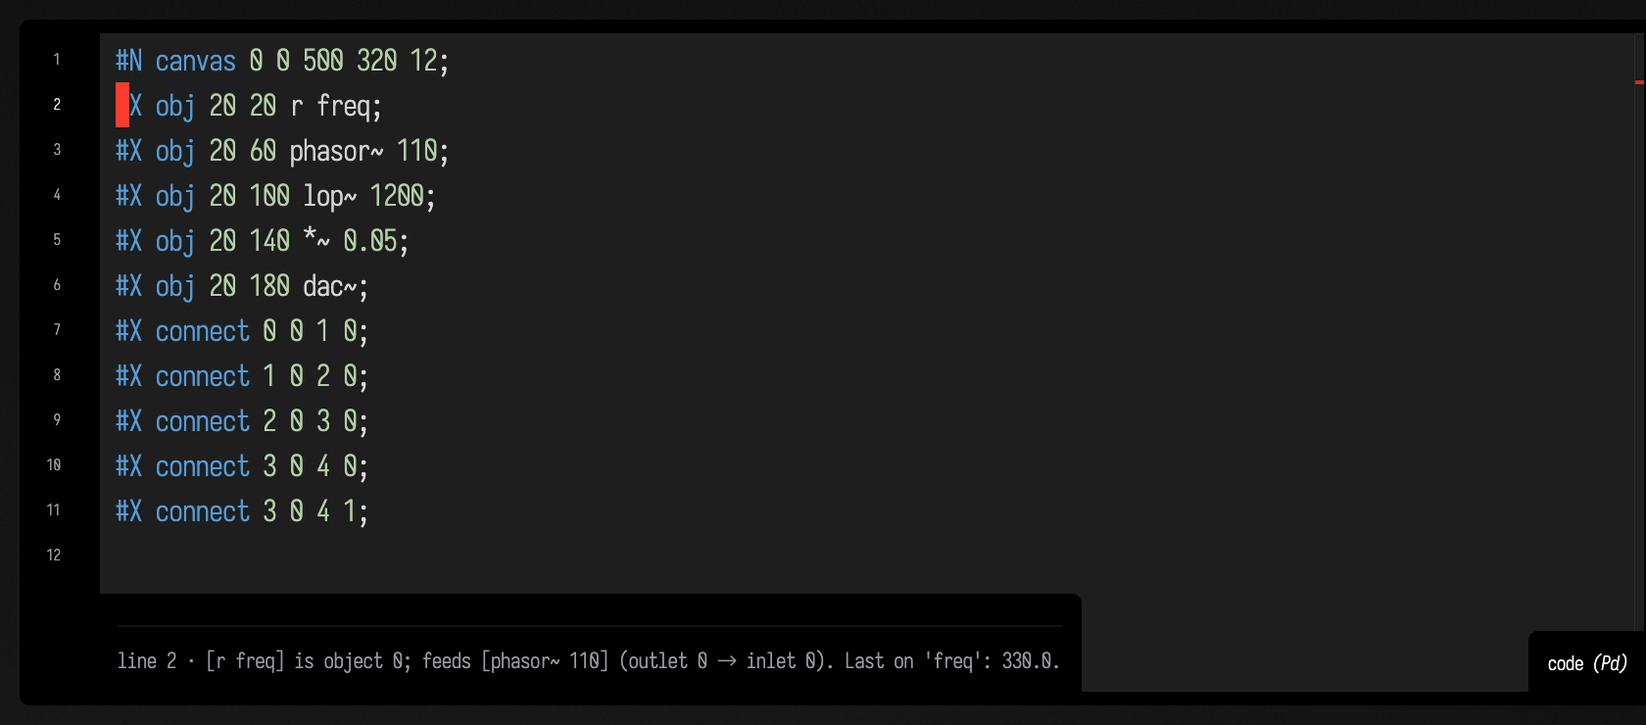
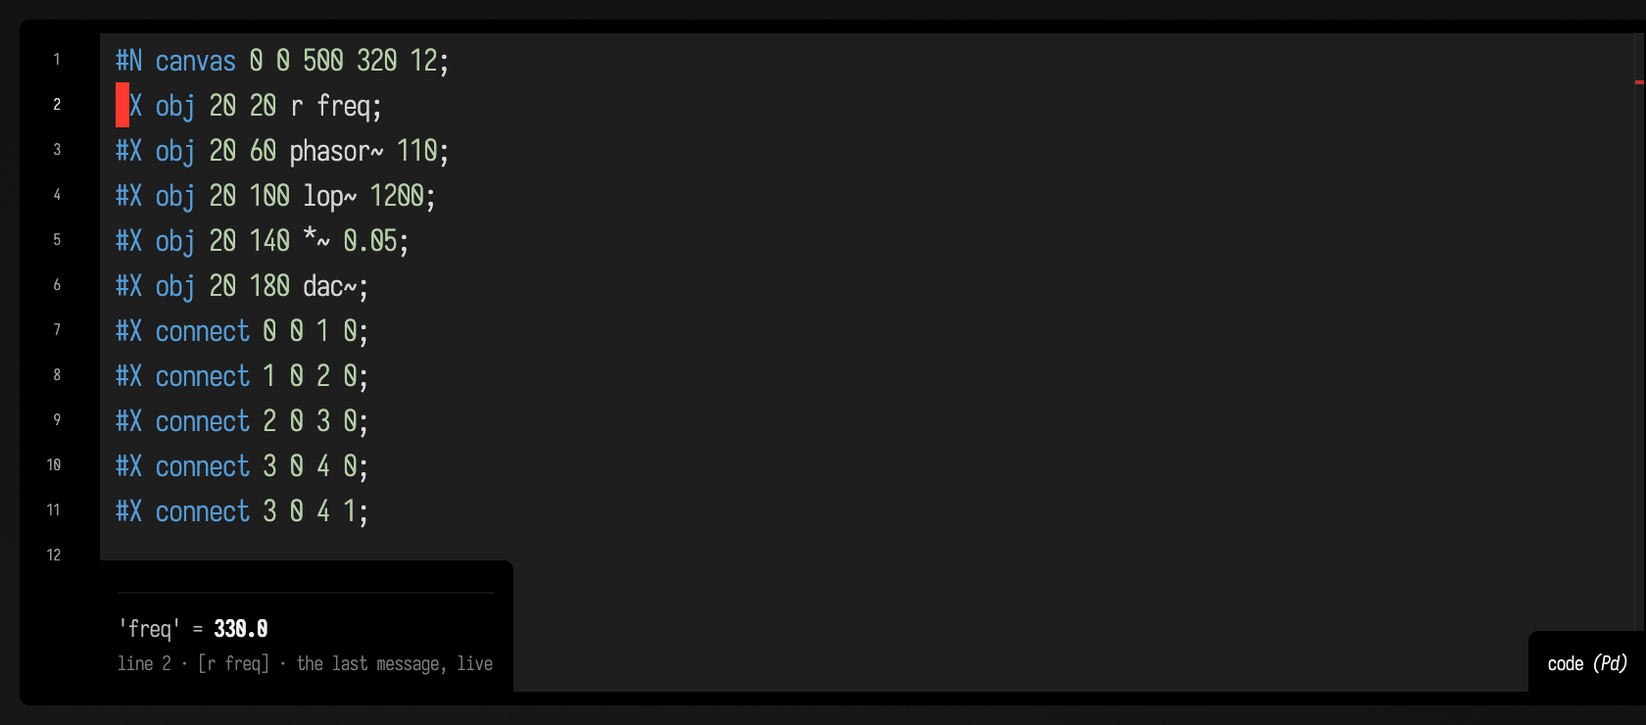
Pd line notes: the value in bold over a muted meta line, and live values marked volatile
Pd's line note was one grey sentence ("[s out] is object 2; fed by [+ 1] (outlet 0 → inlet 0). Last on
'out': 42.0."), cached against the text, so a value that arrived later never reached the editor. It now
uses the split every other language's notes use (N0928-1, after line notes landed):

- an [s] or [r]: 'out' = **42.0**, over "[s out] · the last message, live"; volatile, so the editor asks
  again; on a stopped box it says "not playing: launch the box to see what goes through it";
- any other object: fed by **[r in]** · feeds **[s out]**, **[print out]**, over "[+ 1] · object 1";
- a #X connect line: **[+ 1]** outlet 0 → **[s out]** inlet 0, over "a connection".

The caption stays PdPatchGraph.describeLine's whole sentence, for ReadLineNotes and anything else that
reads a note as text. PdLineNoteTest (4): wiring, a connection, a stopped send, and a playing patch's live
value (an Assume, reported as skipped when libpd is not built; it ran here). afield.pd.* 35/35, none
skipped.

Docs: a Pd row in language_extensions.md's line-notes table; pure_data.md's prose, and both line-note
figures recaptured through the docs runner (regenerated=2, failures=0) with alt text to match; the
pure_data_demo entry in agent_transcripts.md.

Changed region(s): [[0.0619, 0.7459, 0.681, 0.9635]]

diff --git a/src/jvmMain/kotlin/afield/pd/PdLanguage.kt b/src/jvmMain/kotlin/afield/pd/PdLanguage.kt
@@ -289,10 +289,53 @@ fun installPdLanguagePlugin() {
 @RunsAt(plugins, priority = 100)
 fun installPdLineNotes() {
     LineNotes.register("code", { it.ke is PdExecution }) { box, source, line ->
-        val execution = box.ke as? PdExecution
-        val graph = PdPatchGraph.parse(source)
-        graph.describeLine(line - 1) { name -> execution?.running?.pd?.lastValue(name) }?.let { LineNotes.Note(it) }
+        pdLineNote(PdPatchGraph.parse(source), line - 1, (box.ke as? PdExecution)?.running?.pd)
     }
+}
+
+/**
+ * The note for 0-based source [line] of a patch, split the way every language's notes are: a value line
+ * with its results in bold, over a muted meta line.
+ *
+ * An `[s]` or `[r]` shows the last value through its name, from [playing] — the Pd the box is running,
+ * or null when it is stopped, which the meta line says. That value changes while the text does not, so
+ * such a note is [LineNotes.Note.volatile]. Any other object shows what it is wired to, and a
+ * `#X connect` line the two ends it joins; both follow from the text alone. The caption stays
+ * [PdPatchGraph.describeLine]'s whole sentence, for anything that reads a note as text.
+ */
+fun pdLineNote(graph: PdPatchGraph, line: Int, playing: PdInstance?): LineNotes.Note? {
+    val caption = graph.describeLine(line) { name -> playing?.lastValue(name) } ?: return null
+    fun label(index: Int) = graph.objects.getOrNull(index)?.label ?: "#$index"
+    graph.objectOnLine(line)?.let { node ->
+        val name = node.sendsTo ?: node.receivesFrom
+        if (name != null) {
+            val seen = playing?.lastValue(name)
+            val value = if (seen != null) listOf(LineNotes.plain("'$name' = "), LineNotes.strong(seen.args.joinToString(" ").ifEmpty { seen.selector }))
+                else listOf(LineNotes.plain("nothing on '$name' yet"))
+            val meta = if (playing == null) "${node.label} · not playing: launch the box to see what goes through it"
+                else "${node.label} · the last message, live"
+            return LineNotes.Note(caption, volatile = true, meta = meta, value = value)
+        }
+        val value = ArrayList<LineNotes.Segment>()
+        val ins = graph.into(node.index)
+        val outs = graph.outOf(node.index)
+        if (ins.isNotEmpty()) {
+            value += LineNotes.plain("fed by ")
+            ins.forEachIndexed { k, c -> if (k > 0) value += LineNotes.plain(", "); value += LineNotes.strong(label(c.from)) }
+        }
+        if (outs.isNotEmpty()) {
+            value += LineNotes.plain(if (ins.isEmpty()) "feeds " else " · feeds ")
+            outs.forEachIndexed { k, c -> if (k > 0) value += LineNotes.plain(", "); value += LineNotes.strong(label(c.to)) }
+        }
+        if (value.isEmpty()) value += LineNotes.plain(if (node.kind == "text") "a comment" else "connected to nothing")
+        return LineNotes.Note(caption, meta = "${node.label} · object ${node.index}", value = value)
+    }
+    graph.connectionOnLine(line)?.let { c ->
+        if (graph.objects.getOrNull(c.from) == null || graph.objects.getOrNull(c.to) == null) return LineNotes.Note(caption)
+        return LineNotes.Note(caption, meta = "a connection",
+            value = listOf(LineNotes.strong(label(c.from)), LineNotes.plain(" outlet ${c.outlet} → "), LineNotes.strong(label(c.to)), LineNotes.plain(" inlet ${c.inlet}")))
+    }
+    return LineNotes.Note(caption)
 }
 
 fun pdTopologyNeedsUpdating(values: Collection<Box>) {

diff --git a/src/jvmTest/kotlin/afield/pd/PdLineNoteTest.kt b/src/jvmTest/kotlin/afield/pd/PdLineNoteTest.kt
@@ -1,0 +1,69 @@
+package afield.pd
+
+import org.junit.Assume
+import kotlin.test.Test
+import kotlin.test.assertEquals
+import kotlin.test.assertFalse
+import kotlin.test.assertNull
+import kotlin.test.assertTrue
+
+/**
+ * [pdLineNote]: a Pd box's line note split like every language's, with its results in bold. The
+ * wiring and the not-playing case are read from the text alone; the live value needs libpd, and that
+ * test is reported as skipped (not passed) when it is not built.
+ */
+class PdLineNoteTest {
+    private val patch = """
+        #N canvas 0 0 400 250 12;
+        #X obj 20 20 r in;
+        #X obj 20 60 + 1;
+        #X obj 20 100 s out;
+        #X obj 120 100 print out;
+        #X connect 0 0 1 0;
+        #X connect 1 0 2 0;
+        #X connect 1 0 3 0;
+    """.trimIndent()
+    private val graph = PdPatchGraph.parse(patch)
+
+    private fun valueText(note: afield.stdlib.LineNotes.Note) = note.value.joinToString("") { it.text }
+    private fun strongOf(note: afield.stdlib.LineNotes.Note) = note.value.filter { it.strong }.map { it.text }
+
+    @Test fun anObjectShowsItsWiringWithTheObjectsInBold() {
+        val note = pdLineNote(graph, 2, null)!!
+        assertEquals("fed by [r in] · feeds [s out], [print out]", valueText(note))
+        assertEquals(listOf("[r in]", "[s out]", "[print out]"), strongOf(note))
+        assertEquals("[+ 1] · object 1", note.meta)
+        assertFalse(note.volatile, "wiring follows from the text alone")
+        assertEquals(graph.describeLine(2), note.caption, "the caption stays the whole sentence")
+    }
+
+    @Test fun aConnectionNamesBothEnds() {
+        val note = pdLineNote(graph, 6, null)!!
+        assertEquals("[+ 1] outlet 0 → [s out] inlet 0", valueText(note))
+        assertEquals(listOf("[+ 1]", "[s out]"), strongOf(note))
+        assertEquals("a connection", note.meta)
+    }
+
+    @Test fun aSendOnAStoppedBoxSaysItIsNotPlaying() {
+        val note = pdLineNote(graph, 3, null)!!
+        assertEquals("nothing on 'out' yet", valueText(note))
+        assertTrue(note.meta.contains("not playing"), note.meta)
+        assertTrue(note.volatile, "what goes through a name changes while the text does not")
+        assertNull(pdLineNote(graph, 0, null), "the canvas header says nothing")
+    }
+
+    @Test fun aSendOnAPlayingPatchShowsTheLastValueInBold() {
+        Assume.assumeTrue("libpd is not built: ${PdLibrary.describe()}", PdLibrary.isAvailable)
+        PdInstance().use { pd ->
+            pd.openPatchText(patch)
+            pd.receive("out") {}
+            pd.send("in", 41)
+            pd.flush()
+            val note = pdLineNote(graph, 3, pd)!!
+            assertEquals("'out' = 42.0", valueText(note))
+            assertEquals(listOf("42.0"), strongOf(note))
+            assertEquals("[s out] · the last message, live", note.meta)
+            assertTrue(note.volatile)
+        }
+    }
+}

diff --git a/public/docs/reference/synthesis.md b/public/docs/reference/synthesis.md
@@ -4,7 +4,7 @@
 
 Field's own signal graph — the part of the audio stack that makes samples rather than arranging them. One value type carries the whole thing: `Signal` is a block-rendered mono source, `SignalProcessor` is a `Signal` that reads another one, and `/` chains the two, so `saw / OnePole(800.p)` is a filtered sawtooth and nothing else had to be declared. Control values are `Param`, which a plain number becomes with `.p`, and which can itself be driven by a signal. `audio { … }` closes a mono or stereo graph into an `AudioPatchSpec`; return one as a box's last expression and the box stays lit for as long as it is making sound. Underneath is a shared OpenAL engine, one process-wide, with warm-up passes available so the first buffer is not also the JIT's first look at your graph. On top of the oscillator / filter / effect / envelope families sit three larger things that are not Field's own DSP: **Faust**, whose compiler is embedded as WebAssembly and turns a `#faust` box into a running node in the same graph; the **dough** ports, hand-rolled float math whose inaccuracy is part of the sound; and the **spectral** and **granular** layers, which are Field's own. `Visualizers.kt` is how you look at any of it — every function there is an extension on a type declared in this category. Start from `synth.kt`, which is the terse surface a box actually imports; [Sound: from a pattern to something you can hear](../sound.md) is the prose, [Faust](../faust.md) is the embedded compiler with worked examples, and [DoughDSP: hear the primitives](../dough_dsp_sound.md) plays the ports.
 
-33 source file(s), 1224 public symbol(s), 565 of them carrying KDoc. Everything below is the documentation that lives beside the code — the same text the [completion documentation panel](../completion_doc_browser.md) shows in the editor. A blank summary means the declaration has no KDoc yet, not that this page dropped it.
+33 source file(s), 1225 public symbol(s), 566 of them carrying KDoc. Everything below is the documentation that lives beside the code — the same text the [completion documentation panel](../completion_doc_browser.md) shows in the editor. A blank summary means the declaration has no KDoc yet, not that this page dropped it.
 
 <div class="codebase-reference" markdown>
 
@@ -3666,7 +3666,8 @@ A [`PdInstance`](synthesis.md#pdinstance-kt-pdinstance) in Field's audio graph: 
 | [<code class="highlight"><span class="k">fun</span> <span class="nf">installPdLanguage</span><span class="p">(</span><span class="p">)</span></code>](source/jvmMain/afield/pd/PdLanguage/#L267) |  |
 | [<code class="highlight"><span class="k">fun</span> <span class="nf">installPdLanguagePlugin</span><span class="p">(</span><span class="p">)</span></code>](source/jvmMain/afield/pd/PdLanguage/#L281) |  |
 | [<code class="highlight"><span class="k">fun</span> <span class="nf">installPdLineNotes</span><span class="p">(</span><span class="p">)</span></code>](source/jvmMain/afield/pd/PdLanguage/#L290) | Line notes for a Pd box: what an object is wired to, and the last value through an ``s`` or ``r``. Registered late so it is the newest provider for `code` among those that take a Pd box. |
-| [<code class="highlight"><span class="k">fun</span> <span class="nf">pdTopologyNeedsUpdating</span><span class="p">(</span><span class="n">values</span><span class="p">:</span> <span class="nc">Collection</span><span class="p">&lt;</span><span class="nc">Box</span><span class="p">&gt;</span><span class="p">)</span></code>](source/jvmMain/afield/pd/PdLanguage/#L298) |  |
+| [<code class="highlight"><span class="k">fun</span> <span class="nf">pdLineNote</span><span class="p">(</span><span class="n">graph</span><span class="p">:</span> <span class="nc">PdPatchGraph</span><span class="p">,</span> <span class="n">line</span><span class="p">:</span> <span class="nc">Int</span><span class="p">,</span> <span class="n">playing</span><span class="p">:</span> <span class="nc">PdInstance</span><span class="o">?</span><span class="p">)</span><span class="p">:</span> <span class="nc">LineNotes</span><span class="p">.</span><span class="nc">Note</span><span class="o">?</span></code>](source/jvmMain/afield/pd/PdLanguage/#L306) | The note for 0-based source `line` of a patch, split the way every language's notes are: a value line with its results in bold, over a muted meta line. |
+| [<code class="highlight"><span class="k">fun</span> <span class="nf">pdTopologyNeedsUpdating</span><span class="p">(</span><span class="n">values</span><span class="p">:</span> <span class="nc">Collection</span><span class="p">&lt;</span><span class="nc">Box</span><span class="p">&gt;</span><span class="p">)</span></code>](source/jvmMain/afield/pd/PdLanguage/#L341) |  |
 
 ### Top-level values { #pdlanguage-kt-values }
 

diff --git a/public/docs/pure_data.md b/public/docs/pure_data.md
@@ -311,9 +311,10 @@ val drone = """
 lines(afield.pd.PdPatchGraph.parse(drone).toFLines(), channel = "patch", w = 460.0, h = 230.0, fitToSize = true)
 ```
 
-The editor's line notes say what the object on a line is wired to. On an `[s]` or `[r]` they also give
-the last value that went through that name. Here the round-trip patch has been launched and its line
-`in 41` run; the cursor is on `[s out]`:
+The editor's line notes say what the object on a line is wired to, with the objects it meets in bold.
+On an `[s]` or `[r]` the note is instead the last value that went through that name, live from the
+playing patch, and it says so when the box is not playing. Here the round-trip patch has been launched
+and its line `in 41` run; the cursor is on `[s out]`:
 
 ```diffstatic {data-lang=text}
 :::static
@@ -329,7 +330,7 @@ in 41
 #X connect 1 0 3 0;
 ```
 
-```diffstatic_runner {data-lang=kotlin capture="ui" region="editor" clip-selector=".monaco-editor-container" screenshot="assets/pure_data/line-note.png" macro-file="../../dev_docs/agents/transcripts/docs_capture/pd_line_note_roundtrip.yaml" capture-box="pd_doc_roundtrip" requires="libpd" padding="10" wait="0" timeout="120" embed=true hidden=true name="pure-data-line-note" alt="A Pd box in Field's editor holding the round-trip patch: a comment, the message line in 41, then the #N and #X statements for r in, + 1, s out and print out. At the editor's foot the line note for line 6 reads: [s out] is object 2; fed by [+ 1] (outlet 0 → inlet 0). Last on 'out': 42.0."}
+```diffstatic_runner {data-lang=kotlin capture="ui" region="editor" clip-selector=".monaco-editor-container" screenshot="assets/pure_data/line-note.png" macro-file="../../dev_docs/agents/transcripts/docs_capture/pd_line_note_roundtrip.yaml" capture-box="pd_doc_roundtrip" requires="libpd" padding="10" wait="0" timeout="120" embed=true hidden=true name="pure-data-line-note" alt="A Pd box in Field's editor holding the round-trip patch: a comment, the message line in 41, then the #N and #X statements for r in, + 1, s out and print out. At the editor's foot the line note reads 'out' = 42.0, with 42.0 in bold, over a muted line: line 6 · [s out] · the last message, live."}
 // The setup transcript launched the box and ran its line `in 41`. Put the cursor on `[s out]`
 // (box line 6) and wait for the editor to show that line's note. The still is taken here, clipped to
 // the editor (clip-selector), because a capture after the script re-preps the editor, which resets
@@ -368,7 +369,7 @@ Here a Pd box named "drone" is playing a patch that starts with `[r freq]`, and 
 it has run `pdBox("drone").pdSend("freq", 330)`. With the cursor on the drone's `[r freq]` line,
 the line note shows what arrived:
 
-```diffstatic_runner {data-lang=kotlin capture="ui" region="editor" clip-selector=".monaco-editor-container" screenshot="assets/pure_data/send-from-kotlin.png" macro-file="../../dev_docs/agents/transcripts/docs_capture/pd_send_from_kotlin.yaml" capture-box="pd_doc_drone" requires="libpd" padding="10" wait="0" timeout="120" embed=true hidden=true name="pure-data-send-from-kotlin" alt="A Pd box named drone in Field's editor, its patch starting #X obj 20 20 r freq, then phasor~ 110, lop~ 1200, *~ 0.05 and dac~. At the editor's foot the line note for line 2 reads: [r freq] is object 0; feeds [phasor~ 110] (outlet 0 → inlet 0). Last on 'freq': 330.0."}
+```diffstatic_runner {data-lang=kotlin capture="ui" region="editor" clip-selector=".monaco-editor-container" screenshot="assets/pure_data/send-from-kotlin.png" macro-file="../../dev_docs/agents/transcripts/docs_capture/pd_send_from_kotlin.yaml" capture-box="pd_doc_drone" requires="libpd" padding="10" wait="0" timeout="120" embed=true hidden=true name="pure-data-send-from-kotlin" alt="A Pd box named drone in Field's editor, its patch starting #X obj 20 20 r freq, then phasor~ 110, lop~ 1200, *~ 0.05 and dac~. At the editor's foot the line note reads 'freq' = 330.0, with 330.0 in bold, over a muted line: line 2 · [r freq] · the last message, live."}
 // The setup transcript launched "drone", then ran the Kotlin box `pdBox("drone").pdSend("freq", 330)`.
 // Put the cursor on the drone's `[r freq]` (box line 2) and wait for its note; the still is taken
 // here, clipped to the editor, as in the figure above.

diff --git a/public/docs/reference/index.md b/public/docs/reference/index.md
@@ -4,7 +4,7 @@
 
 A browsable map of Field's standard library: every public declaration in `afield.stdlib`, `afield.visualization`, `afield.four.synth`, `afield.four.physics`, `afield.four.fabricated`, `afield.kratos`, `afield.tetgen` and `afield.pd`, plus the 10 small-language packages (`afield.clojure`, `afield.datalog`, `afield.forth`, `afield.ml`, `afield.morpho`, `afield.nano`, `afield.python`, `afield.rectsl`, `afield.remotejs` and `afield.stacksl`), with the KDoc that sits next to it in the source.
 
-**15594 public symbols across 420 source files**, 9254 of them (59%) carrying a KDoc summary. Pages are grouped by the `@file:CompletionCategory` label the source itself carries, which is the same grouping the editor's autocomplete uses. [Languages](languages.md) is the exception: no file in the small-language packages carries that annotation, so those files are grouped by source path instead.
+**15595 public symbols across 420 source files**, 9255 of them (59%) carrying a KDoc summary. Pages are grouped by the `@file:CompletionCategory` label the source itself carries, which is the same grouping the editor's autocomplete uses. [Languages](languages.md) is the exception: no file in the small-language packages carries that annotation, so those files are grouped by source path instead.
 
 The "documented" column counts declarations carrying a KDoc summary. Where a summary column below is blank, the declaration has none yet.
 
@@ -22,7 +22,7 @@ The "documented" column counts declarations carrying a KDoc summary. Where a sum
 | [Function](function.md) | 15 | 601 | 391 (65%) | The function algebra — Field's first-class, evolvable, graph-rewritable notion of a function. |
 | [Search](search.md) | 1 | 50 | 25 (50%) | Optimisation over a space you can only sample. |
 | [Visualization](visualization.md) | 18 | 552 | 486 (88%) | Turning a value into something you can look at, without leaving the box. |
-| [Synthesis](synthesis.md) | 33 | 1224 | 565 (46%) | Field's own signal graph — the part of the audio stack that makes samples rather than arranging them. |
+| [Synthesis](synthesis.md) | 33 | 1225 | 566 (46%) | Field's own signal graph — the part of the audio stack that makes samples rather than arranging them. |
 | [Patterns](patterns.md) | 34 | 1178 | 632 (53%) | Musical time, as a value. |
 | [Audio](audio.md) | 19 | 895 | 294 (32%) | Sound that arrives from, or leaves for, somewhere other than Field's own signal graph: analysis products written by an offline tool, the network protocols that carry control data, the Dirt sample library on disk, an Ableton Live set read off the filesystem, and Sonic Pi driven as an owned child process with no window of its own. |
 | [Audio AI](audio-ai.md) | 20 | 570 | 384 (67%) | The client half of Field Audio: a separate HTTP/WebSocket service that runs generative and analysis models over audio, and the typed vocabulary a box talks to it in. |
@@ -327,7 +327,7 @@ The "documented" column counts declarations carrying a KDoc summary. Where a sum
 | [PatTranscriptionGallery.kt](patterns.md#pattranscriptiongallery-kt) | Patterns | 12 | 8 | The figure that makes the round trip something you look at rather than read about. |  |
 | [PdBox.kt](synthesis.md#pdbox-kt) | Synthesis | 40 | 28 | The box-facing side of Pure Data: a patch as a sound source, with messages both ways. | [Pure Data](../pure_data.md), [Agent transcript gallery](../agent_transcripts.md) |
 | [PdInstance.kt](synthesis.md#pdinstance-kt) | Synthesis | 50 | 38 |  |  |
-| [PdLanguage.kt](synthesis.md#pdlanguage-kt) | Synthesis | 16 | 5 |  |  |
+| [PdLanguage.kt](synthesis.md#pdlanguage-kt) | Synthesis | 17 | 6 |  |  |
 | [PdNative.kt](synthesis.md#pdnative-kt) | Synthesis | 7 | 7 |  |  |
 | [PdObjects.kt](synthesis.md#pdobjects-kt) | Synthesis | 5 | 5 |  |  |
 | [PdPatchGraph.kt](synthesis.md#pdpatchgraph-kt) | Synthesis | 15 | 15 |  |  |

diff --git a/dev_docs/kdoc_worklist.md b/dev_docs/kdoc_worklist.md
@@ -2,7 +2,7 @@
 <!-- Regenerate: ./gradlew generateCodebaseReference -->
 # KDoc worklist
 
-The other half of the coverage column on [the codebase reference](../public/docs/reference/index.md): 9254 of 15594 public symbols in `afield.stdlib`, `afield.visualization`, `afield.four.synth`, `afield.four.physics`, `afield.four.fabricated`, `afield.kratos`, `afield.tetgen` and `afield.pd`, plus the 10 small-language packages (`afield.clojure`, `afield.datalog`, `afield.forth`, `afield.ml`, `afield.morpho`, `afield.nano`, `afield.python`, `afield.rectsl`, `afield.remotejs` and `afield.stacksl`) carry a KDoc summary, and this is what is missing, most valuable first.
+The other half of the coverage column on [the codebase reference](../public/docs/reference/index.md): 9255 of 15595 public symbols in `afield.stdlib`, `afield.visualization`, `afield.four.synth`, `afield.four.physics`, `afield.four.fabricated`, `afield.kratos`, `afield.tetgen` and `afield.pd`, plus the 10 small-language packages (`afield.clojure`, `afield.datalog`, `afield.forth`, `afield.ml`, `afield.morpho`, `afield.nano`, `afield.python`, `afield.rectsl`, `afield.remotejs` and `afield.stacksl`) carry a KDoc summary, and this is what is missing, most valuable first.
 
 **777 undocumented entry points** (types, top-level functions and values) and 5231 undocumented members. Overload families count once — documenting `pulseTrain` closes one gap, not six — and the members Kotlin generates for a `data class` are not counted at all.
 
@@ -147,7 +147,7 @@ Ranking is by payoff, from signals the generator already has: files that a worke
 | [KratosSession.kt](../src/jvmMain/kotlin/afield/kratos/KratosSession.kt) | Simulation | — | 4 | 44 | 29% |
 | [DatalogAst.kt](../src/jvmMain/kotlin/afield/datalog/DatalogAst.kt) | Languages | — | 4 | 15 | 41% |
 | [DatalogInterface.kt](../src/jvmMain/kotlin/afield/datalog/DatalogInterface.kt) | Languages | — | 4 | 7 | 26% |
-| [PdLanguage.kt](../src/jvmMain/kotlin/afield/pd/PdLanguage.kt) | Synthesis | — | 4 | 7 | 31% |
+| [PdLanguage.kt](../src/jvmMain/kotlin/afield/pd/PdLanguage.kt) | Synthesis | — | 4 | 7 | 35% |
 | [PointController.kt](../src/jvmMain/kotlin/afield/four/physics/PointController.kt) | Simulation | — | 3 | 45 | 17% |
 | [SemanticSearchManager.kt](../src/jvmMain/kotlin/afield/stdlib/SemanticSearchManager.kt) | Data | — | 3 | 34 | 0% |
 | [JSONLineServer.kt](../src/jvmMain/kotlin/afield/stdlib/JSONLineServer.kt) | Data | — | 3 | 27 | 3% |

diff --git a/dev_docs/pd/PURE_DATA.md b/dev_docs/pd/PURE_DATA.md
@@ -12,7 +12,7 @@ Added 2026-09-28. User-facing page: `public/docs/pure_data.md`. Loadable scene:
 | `src/jvmMain/kotlin/afield/pd/PdNative.kt` | `PdLibrary` (locate: `-Dafield.pd.library`, `AFIELD_PD_LIBRARY`, then `build/field-libpd/…`) and `PdNative`: FFM downcalls for `z_libpd.h`, upcall stubs for the print/bang/float/symbol/list/message hooks. No wrapper library. |
 | `src/jvmMain/kotlin/afield/pd/PdInstance.kt` | `PdInstance` (one `t_pdinstance`), `PdPatch`, `PdNode : StereoNode` — the seam entry. |
 | `src/jvmMain/kotlin/afield/pd/PdPatchGraph.kt` | the patch text as a graph (object indices as Pd counts them, subpatches as one object), line descriptions, FLine drawing, `statementsOnly`. |
-| `src/jvmMain/kotlin/afield/pd/PdLanguage.kt` | `PdExecution`: Pd as a Main Language; message lines as fragments; LineNotes provider. |
+| `src/jvmMain/kotlin/afield/pd/PdLanguage.kt` | `PdExecution`: Pd as a Main Language; message lines as fragments; LineNotes provider (`pdLineNote`: the split note — value line in bold over a muted meta line; an `[s]`/`[r]` note is `volatile` and says when the box is not playing; the caption stays `PdPatchGraph.describeLine`'s sentence, which `ReadLineNotes` reads). `PdLineNoteTest` (4; the live case is an `Assume`, reported as skipped without libpd). |
 | `tools/build_zensical_docs.py` | `libpd_library_path` and the `libpd` entry in `NATIVE_PREREQUISITES`, so a docs fence can say `requires="libpd"`. |
 | `src/jvmMain/kotlin/afield/four/synth/PdBox.kt` | box API in the box import set: `pd(text|file)`, `PdLaunch`, `pdControls`, `pdGuiControls`, `pdWaveform`, `renderPdWav`, the return-value handler, and `pdBox(name)` / `Box.pdSend(receiver, values…)` for sending from Kotlin to a *Pd box's* running patch. |
 | `src/jvmMain/kotlin/afield/pd/PdObjects.kt` | typo hints: reads `pd-objects.txt`, which `build_libpd_native.py` writes beside the library from every `class_new` / `class_addcreator` name in the pinned `src` and `extra` (297 names at 0.16.1, internals removed), and suggests the signal/control twin, a case fix, or the nearest names within two edits (one for ≤3 letters). |

diff --git a/public/docs/agent_transcripts.md b/public/docs/agent_transcripts.md
@@ -1686,7 +1686,7 @@ reporting 25.0.2. The last cell's `fig.show()` needs a browser attached to be wo
 under it, and four Kotlin boxes that drive a patch from Kotlin. **drone**'s text is its patch: launch
 it, then run the line `freq 330` on its own and the filtered sawtooth moves. **round trip** is
 `[r in] → [+ 1] → [s out]`; running `in 41` prints `out: 42`, and the line note on `[s out]` then
-reads "Last on 'out': 42.0". **typo** has `[osc 440]` on line 3, and launching it marks that line
+reads `'out' = 42.0`, live from the playing patch. **typo** has `[osc 440]` on line 3, and launching it marks that line
 "Pd couldn't create [osc 440] — did you mean [osc~ 440]?". The Kotlin boxes write a wavetable into
 `[table wave]` (2051 points), send a `SawOsc` through a Pd `[lop~]` and read its level back from
 `[s level]`, send numbers to the drone with `pdBox("drone").pdSend(...)`, and render a patch offline:

diff --git a/public/docs/language_extensions.md b/public/docs/language_extensions.md
@@ -287,6 +287,7 @@ are the ones Field's own languages give:
 | Python | what each top-level statement came to on the last run: an expression's value, the name it assigned, what it defined, or just that it ran | — |
 | FieldML | the value each top-level `let` bound on the last run, and its type; the final expression's value | — |
 | Datalog | a rule: the facts its body derives in the box's model; a query: its answers; a fact: whether it is in the model and which rules read it | the derived rows, as a table |
+| Pd | an object: what it is fed by and feeds; an `[s]` or `[r]`: the last value through its name, live from the playing patch; a `#X connect` line: the two ends it joins | — |
 
 The [ForthField](forth_examples.md#what-each-line-left-on-the-stack) and
 [Python](python.md#what-each-line-came-to) pages show notes in the editor; the [Clojure](clojure.md) and
